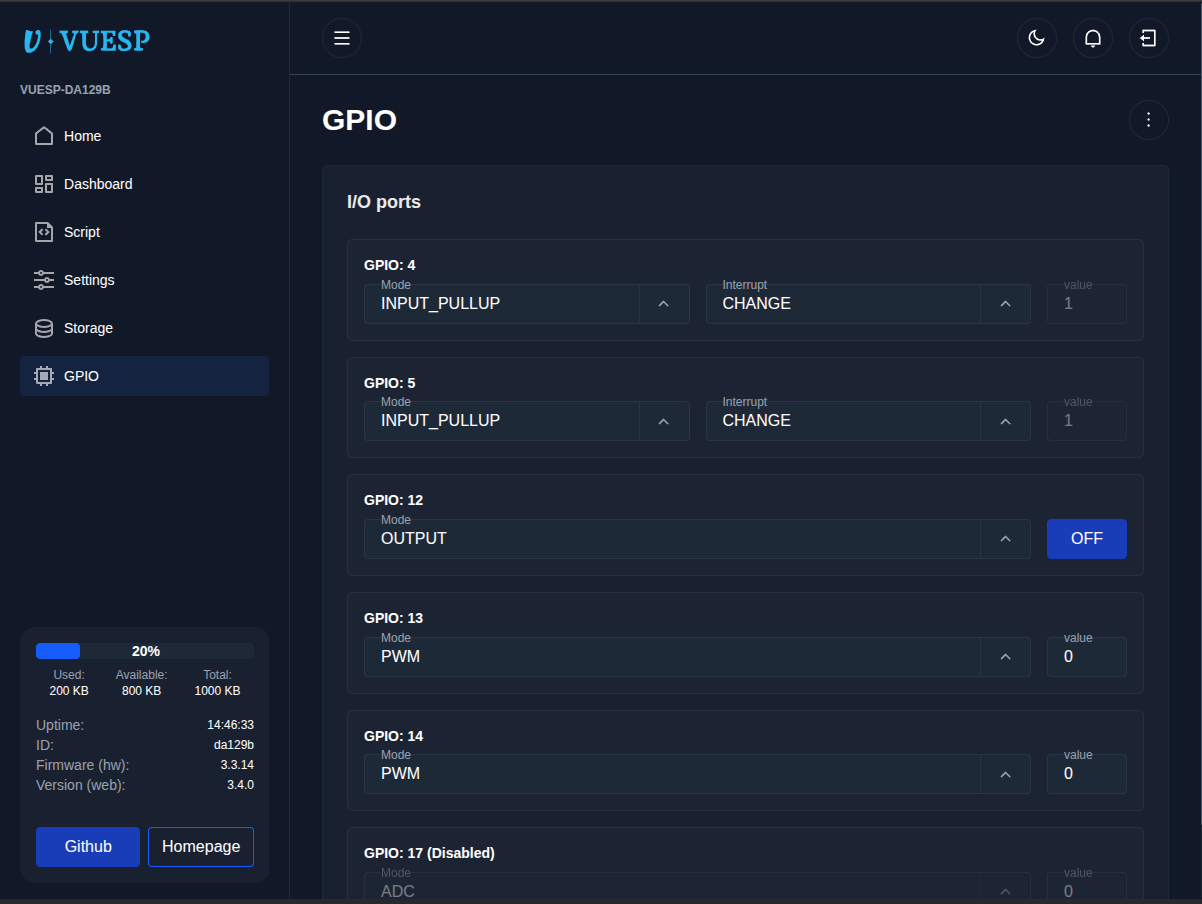
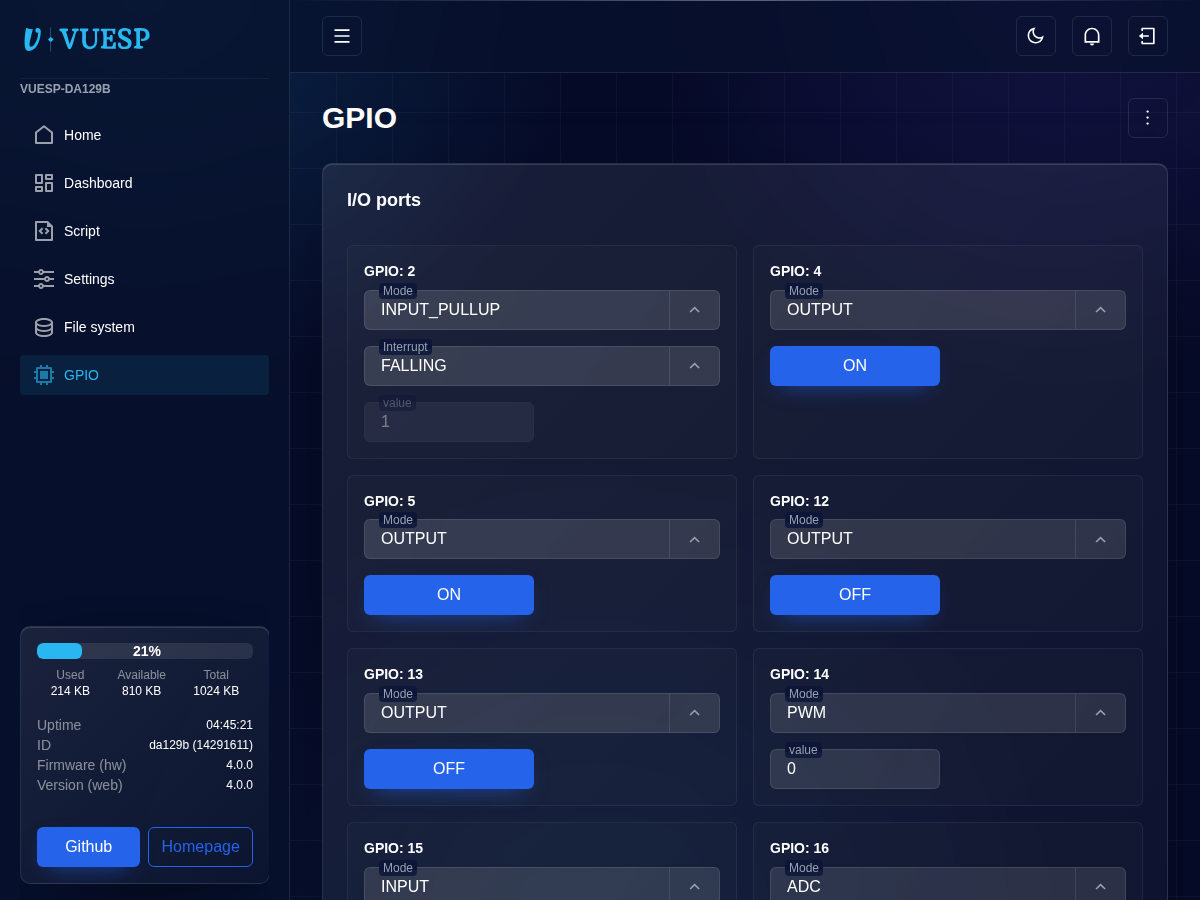
feat: update 4.0

diff --git a/README.md b/README.md
@@ -187,6 +187,12 @@ Binary WebSocket messages at `/esp` endpoint:
 
 ## Version History
 
+### 4.0.0 (2026-11-08)
+
+- V4.0 device UI with the shared glass theme and light/dark modes.
+- Updated web dependencies and regenerated screenshots.
+- Release workflow publishes `esp32-c3-devkitm-1` firmware and LittleFS images.
+
 ### 3.4.0 (2026-07-24)
 
 - Update Web
@@ -290,7 +296,7 @@ This project is licensed under the MIT License - see LICENSE file for details.
 
 The MIT License (MIT)
 
-Copyright (c) 2021-2025, bondrogeen <bondrogeen@users.noreply.github.com>
+Copyright (c) 2021-2025, bondrogeen
 
 Permission is hereby granted, free of charge, to any person obtaining a copy
 of this software and associated documentation files (the "Software"), to deal
